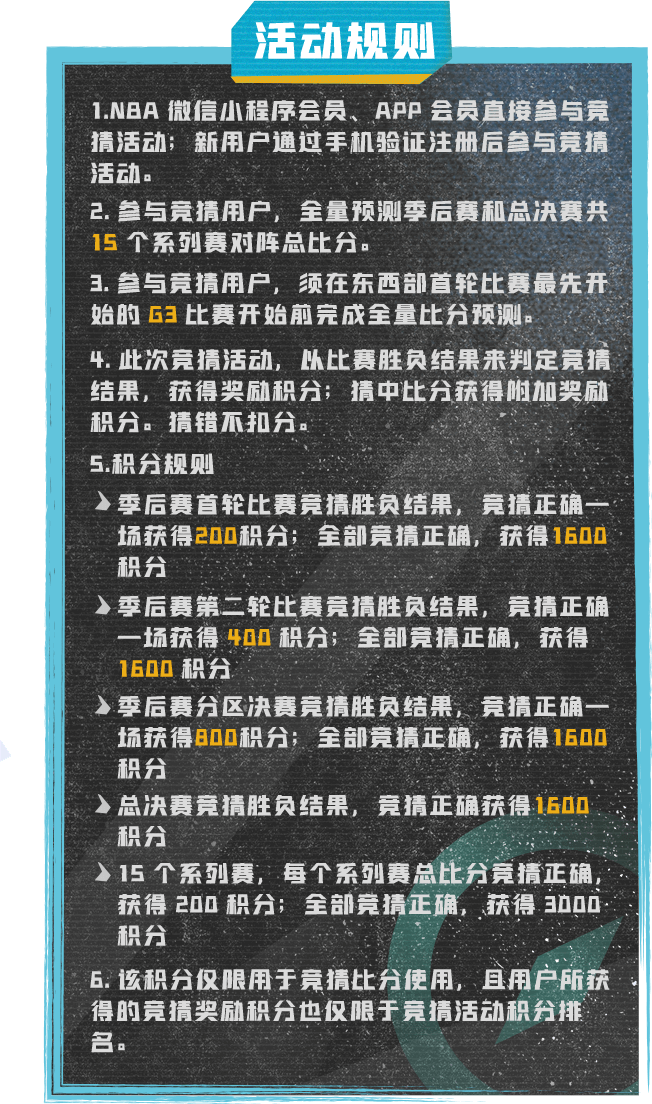
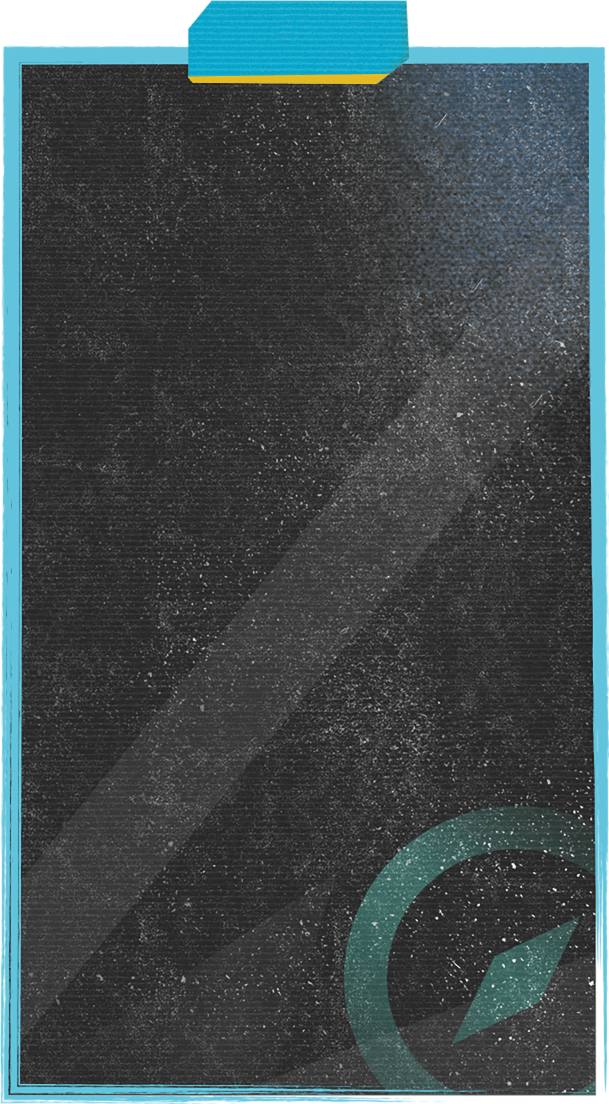
feat:规则弹框

diff --git a/src/pages/home/index.vue b/src/pages/home/index.vue
@@ -32,7 +32,22 @@
     <van-overlay :show="show" @click="show = false">
       <div class="wrapper" @click.stop>
         <div class="block">
-          <img src="@assets/images/rules.png" alt="" />
+          <h3 class="block-title">活动规则</h3>
+          <div class="block-rulse">
+            <p>1.NBA微信小程序会员、APP会员直接参与竞猜活动；新用户通过手机验证注册后参与竞猜活动。</p>
+            <p>2.参与竞猜用户，全量预测季后赛和总决赛共<span>15</span>个系列赛对阵总比分。</p>
+            <p>3.参与竞猜用户，须在东西部首轮比赛最先开始的<span>G3</span>比赛开始前完成全量比分预测。</p>
+            <p>4.此次竞猜活动，以比赛胜负结果来判定竞猜结果，获得奖励积分；猜中比分获得附加奖励积分。猜错不扣分。</p>
+            <p>5.积分规则</p>
+            <div class="block-rulse-secondary">
+              <p>季后赛首轮比赛竞猜胜负结果，竞猜正确一场获得<span>200</span>积分；全部竞猜正确，获得<span>1600</span>积分</p>
+              <p>季后赛第二轮比赛竞猜胜负结果，竞猜正确一场获得<span>400</span>积分；全部竞猜正确，获得<span>1600</span>积分</p>
+              <p>季后赛分区决赛竞猜胜负结果，竞猜正确一场获得<span>800</span>积分；全部竞猜正确，获得<span>1600</span>0积分</p>
+              <p>总决赛竞猜胜负结果，竞猜正确获得<span>1600</span>积分</p>
+              <p>15个系列赛，每个系列赛总比分竞猜正确，获得<span>200</span>积分；全部竞猜正确，获得<span>3000</span>积分</p>
+            </div>
+            <p>6.该积分仅限用于竞猜比分使用，且用户所获得的竞猜奖励积分也仅限于竞猜活动积分排名。</p>
+          </div>
           <div class="close" @click="show = false"></div>
         </div>
       </div>
@@ -153,12 +168,48 @@ export default defineComponent({
     justify-content: center;
     height: 100%;
     .block {
-      width: 750px;
-
-      img {
-        width: 650px;
-        display: block;
-        margin-left: 28px;
+      width: 650px;
+      background-image: url(@assets/images/rules.png);
+      background-repeat: no-repeat;
+      background-size: 100%;
+      &-title {
+        font-size: 46px;
+        font-family: $font-ximai;
+        text-align: center;
+        font-weight: 400;
+        color: #ffffff;
+        margin: 16px 10px 30px 0;
+      }
+      &-rulse {
+        padding: 0 30px;
+        font-size: 29px;
+        font-family: $font-zhengdao;
+        font-weight: 400;
+        color: #dbdbdb;
+        p {
+          margin-bottom: 12px;
+          line-height: 34px;
+          span {
+            color: #f0a911;
+          }
+        }
+        &-secondary {
+          padding: 0 16px 0 26px;
+          p {
+            position: relative;
+            &::after {
+              content: '';
+              position: absolute;
+              top: 0;
+              left: -26px;
+              width: 16px;
+              height: 16px;
[1 lines of base64/hex data omitted]
+                no-repeat;
+              background-size: 100%;
+            }
+          }
+        }
       }
       .close {
         width: 80px;
@@ -166,7 +217,8 @@ export default defineComponent({
[1 lines of base64/hex data omitted]
           no-repeat;
         background-size: 100%;
-        margin: 20px auto;
+        margin: 0 auto;
+        margin-top: 96px;
       }
     }
   }
